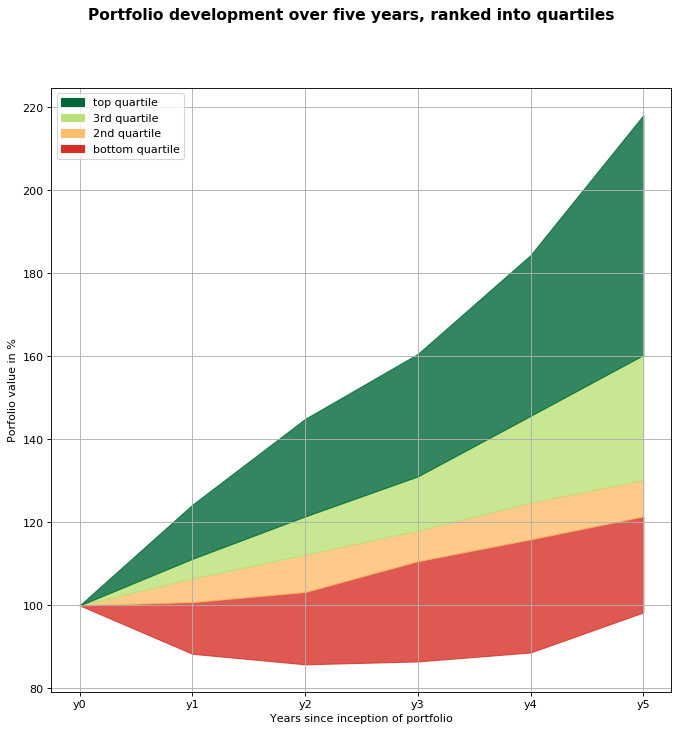
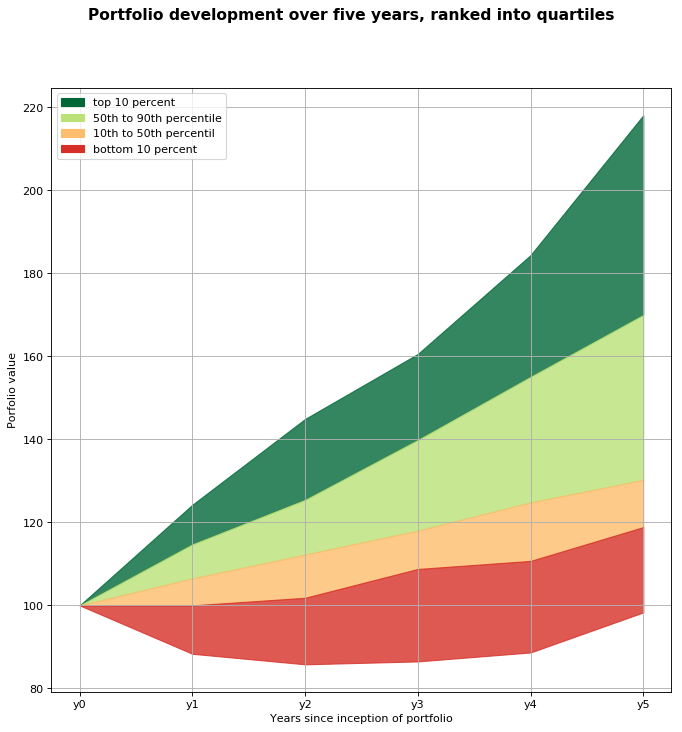
Add plots for several portfolios
- also update plotting quantiles

diff --git a/utils.py b/utils.py
@@ -107,27 +107,31 @@ def make_confidence_interval_graph(df: pd.DataFrame, color: str="green") -> plt.
     from matplotlib.patches import Patch
     fig, ax = plt.subplots(figsize=(10,10))
     cmap = plt.cm.RdYlGn
-    colour_mapping = {"bottom quartile": cmap(0.1), 
-                      "2nd quartile": cmap(0.33),
-                      "3rd quartile": cmap(0.66),
-                      "top quartile": cmap(1.0)
+    colour_mapping = {
+        "top_10": cmap(1.0),
+        "50-90": cmap(0.66),
+        "10-50": cmap(0.33),
+        "bottom_10": cmap(0.1), 
                          }
 
     #df.iloc[2].plot(ax=ax, color="green")
-    ax.fill_between(df.columns, df.iloc[0], df.iloc[1], alpha=0.8, color=colour_mapping["bottom quartile"])
-    ax.fill_between(df.columns, df.iloc[1], df.iloc[2], alpha=0.8, color=colour_mapping["2nd quartile"])
-    ax.fill_between(df.columns, df.iloc[2], df.iloc[3], alpha=0.8, color=colour_mapping["3rd quartile"])
-    ax.fill_between(df.columns, df.iloc[3], df.iloc[4], alpha=0.8, color=colour_mapping["top quartile"])
+    ax.fill_between(df.columns, df.iloc[3], df.iloc[4], alpha=0.8, color=colour_mapping["top_10"])
+    ax.fill_between(df.columns, df.iloc[2], df.iloc[3], alpha=0.8, color=colour_mapping["50-90"])
+    ax.fill_between(df.columns, df.iloc[1], df.iloc[2], alpha=0.8, color=colour_mapping["10-50"])
+    ax.fill_between(df.columns, df.iloc[0], df.iloc[1], alpha=0.8, color=colour_mapping["bottom_10"])
+    
+    
+    
     
     ax.grid(True)
     
     ax.set_xlabel('Years since inception of portfolio')
-    ax.set_ylabel('Porfolio value in %')
+    ax.set_ylabel('Porfolio value')
     legend_elements = [
-        Patch(color=colour_mapping["top quartile"], label="top quartile"),               
-        Patch(color=colour_mapping["3rd quartile"], label="3rd quartile"),
-        Patch(color=colour_mapping["2nd quartile"], label="2nd quartile"),
-        Patch(color=colour_mapping["bottom quartile"], label="bottom quartile"),
+        Patch(color=colour_mapping["top_10"], label="top 10 percent"),               
+        Patch(color=colour_mapping["50-90"], label="50th to 90th percentile"),
+        Patch(color=colour_mapping["10-50"], label="10th to 50th percentil"),
+        Patch(color=colour_mapping["bottom_10"], label="bottom 10 percent"),
                       ]
 
 
